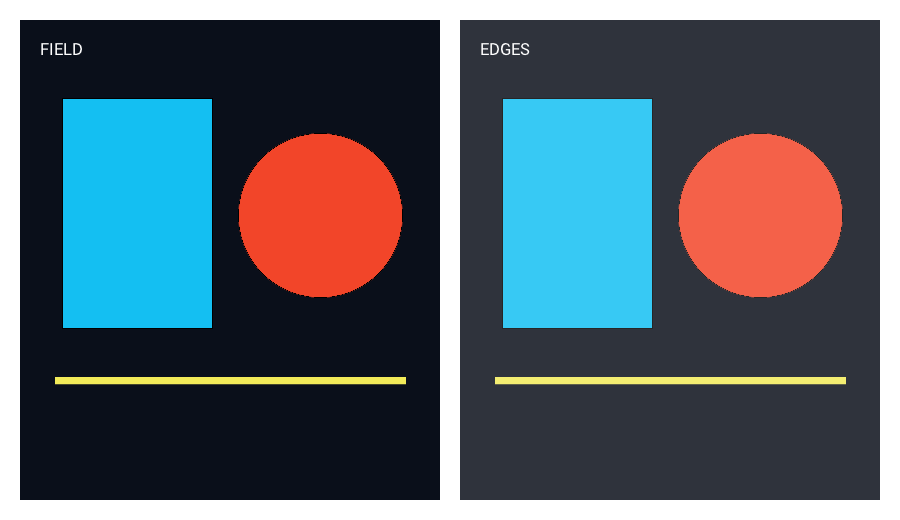
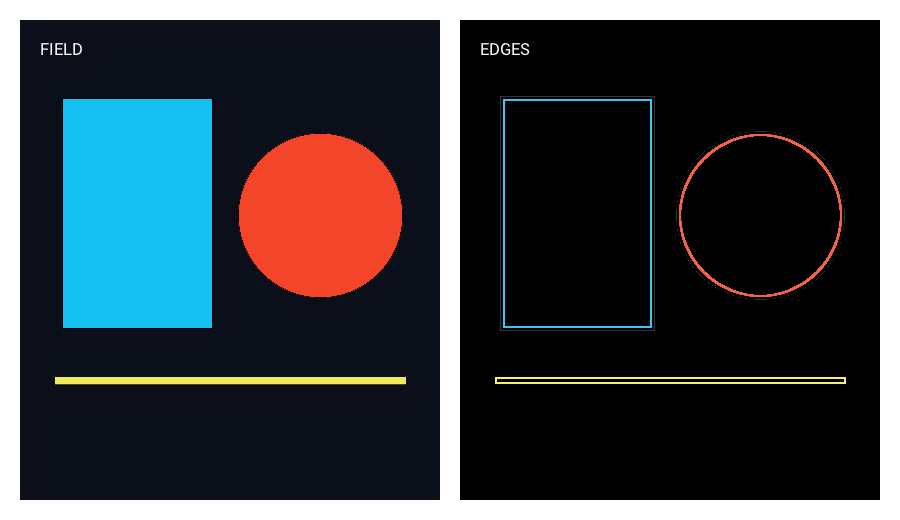
Make image edits preserve alpha and verify the complete gallery pipeline
Color filters now preserve alpha, and sepia uses an explicit warm-tone matrix with known-answer checks. Validate freshly generated assets without Git timestamps and publish the reviewed before/after gallery with reproducible build evidence.

Confidence: high
Scope-risk: moderate
Tested: 17 local test groups, 90 native assertions, 10 DSL scripts, 14 error cases, static linkage, deterministic images, both memory budgets and visual QA
Not-tested: Five-platform CI and release autorun checks pending

diff --git a/cpp/image.cpp b/cpp/image.cpp
@@ -37,7 +37,8 @@ void init() {
         "<policymap><policy domain=\"delegate\" rights=\"none\" "
         "pattern=\"*\"/><policy domain=\"coder\" rights=\"none\" "
         "pattern=\"*\"/><policy domain=\"coder\" rights=\"read|write\" "
-        "pattern=\"{PNG,JPEG,TIFF,WEBP,GIF,BMP,PNM,PPM,PGM,PBM}\"/><policy domain=\"path\" "
+        "pattern=\"{PNG,JPEG,TIFF,WEBP,GIF,BMP,PNM,PPM,PGM,PBM}\"/><policy "
+        "domain=\"path\" "
         "rights=\"none\" pattern=\"@*\"/><policy domain=\"system\" "
         "name=\"max-profile-size\" value=\"1MiB\"/></policymap>";
     if (MagickSetSecurityPolicy(policy_wand, policy) == MagickFalse) {
@@ -206,6 +207,28 @@ void import_rgba(MagickWand *w, std::vector<double> &a) {
                              a.data()),
      w, "import pixels");
 }
+template <class F> void rgb_filter(MagickWand *p, F operation) {
+  const size_t w = MagickGetImageWidth(p), h = MagickGetImageHeight(p);
+  std::vector<unsigned char> alpha(w * h);
+  ok(MagickExportImagePixels(p, 0, 0, w, h, "A", CharPixel, alpha.data()), p,
+     "read filter alpha");
+  const auto old = MagickSetImageChannelMask(
+      p, static_cast<ChannelType>(RedChannel | GreenChannel | BlueChannel));
+  operation();
+  MagickSetImageChannelMask(p, old);
+  ok(MagickSetImageAlphaChannel(p, ActivateAlphaChannel), p,
+     "activate filter alpha");
+  ok(MagickImportImagePixels(p, 0, 0, w, h, "A", CharPixel, alpha.data()), p,
+     "preserve filter alpha");
+}
+void kernel_peak(double radius, double sigma) {
+  if (!std::isfinite(radius) || !std::isfinite(sigma) || radius < 0 ||
+      sigma < 0 || radius > 256 || sigma > 256)
+    throw std::invalid_argument("filter radius and sigma must be in [0,256]");
+  auto width =
+      static_cast<size_t>(2 * std::ceil(std::max(radius, 4 * sigma)) + 1);
+  membudget::require(width * width * sizeof(double) + 32768);
+}
 double lum(const double *p) {
   return .2126 * p[0] + .7152 * p[1] + .0722 * p[2];
 }
@@ -322,7 +345,7 @@ Image Image::open(const std::string &path) {
   check_path(path);
   const std::string read_path = path + "[0]";
   auto file_bytes = std::filesystem::file_size(path);
-  if (file_bytes > std::numeric_limits<size_t>::max() / 2)
+  if (file_bytes > (std::numeric_limits<size_t>::max() - 2 * 1024 * 1024) / 2)
     throw std::invalid_argument("image file too large");
   membudget::require(static_cast<size_t>(file_bytes) * 2 + 2 * 1024 * 1024);
   MagickWand *probe = NewMagickWand();
@@ -475,12 +498,14 @@ Image &Image::flip(bool horizontal) {
 }
 Image &Image::levels(double black, double gamma, double white) {
   if (!std::isfinite(black) || !std::isfinite(gamma) || !std::isfinite(white) ||
-      !(gamma > 0))
+      !(gamma > 0) || black < 0 || white > 1 || black >= white)
     throw std::invalid_argument(
-        "levels parameters must be finite and gamma positive");
+        "levels require 0 <= black < white <= 1 and positive finite gamma");
   return mutate([&](MagickWand *p) {
-    ok(MagickLevelImage(p, black * QuantumRange, gamma, white * QuantumRange),
-       p, "levels");
+    rgb_filter(p, [&] {
+      ok(MagickLevelImage(p, black * QuantumRange, gamma, white * QuantumRange),
+         p, "levels");
+    });
   });
 }
 Image &Image::curves(const std::vector<double> &cp) {
@@ -555,26 +580,39 @@ Image &Image::grayscale() {
     import_rgba(p, a);
   });
 }
-Image &Image::sepia(double t) {
-  return mutate(
-      [&](MagickWand *p) { ok(MagickSepiaToneImage(p, t), p, "sepia"); });
+Image &Image::sepia(double strength) {
+  if (!std::isfinite(strength) || strength < 0 || strength > 100)
+    throw std::invalid_argument("sepia strength must be in [0,100]");
+  return mutate([&](MagickWand *p) {
+    std::vector<double> a;
+    export_rgba(p, a);
+    double t = strength / 100;
+    for (size_t i = 0; i < a.size(); i += 4) {
+      double r = a[i], g = a[i + 1], b = a[i + 2];
+      a[i] = clip((1 - t) * r + t * (.393 * r + .769 * g + .189 * b));
+      a[i + 1] = clip((1 - t) * g + t * (.349 * r + .686 * g + .168 * b));
+      a[i + 2] = clip((1 - t) * b + t * (.272 * r + .534 * g + .131 * b));
+    }
+    import_rgba(p, a);
+  });
 }
-Image &Image::blur(double r, double s) {
-  if (!std::isfinite(r) || !std::isfinite(s) || r < 0 || s < 0)
-    throw std::invalid_argument("blur radii must be finite and nonnegative");
-  return mutate(
-      [&](MagickWand *p) { ok(MagickBlurImage(p, r, s), p, "blur"); });
+Image &Image::blur(double r, double sigma) {
+  kernel_peak(r, sigma);
+  return mutate([&](MagickWand *p) {
+    rgb_filter(p, [&] { ok(MagickBlurImage(p, r, sigma), p, "blur"); });
+  });
 }
-Image &Image::sharpen(double r, double s) {
-  if (!std::isfinite(r) || !std::isfinite(s) || r < 0 || s < 0)
-    throw std::invalid_argument("sharpen radii must be finite and nonnegative");
-  return mutate(
-      [&](MagickWand *p) { ok(MagickSharpenImage(p, r, s), p, "sharpen"); });
+Image &Image::sharpen(double r, double sigma) {
+  kernel_peak(r, sigma);
+  return mutate([&](MagickWand *p) {
+    rgb_filter(p, [&] { ok(MagickSharpenImage(p, r, sigma), p, "sharpen"); });
+  });
 }
 Image &Image::edges(double r) {
-  if (!std::isfinite(r) || r < 0)
-    throw std::invalid_argument("edge radius must be finite and nonnegative");
-  return mutate([&](MagickWand *p) { ok(MagickEdgeImage(p, r), p, "edges"); });
+  kernel_peak(r, 0);
+  return mutate([&](MagickWand *p) {
+    rgb_filter(p, [&] { ok(MagickEdgeImage(p, r), p, "edges"); });
+  });
 }
 Image &Image::unsharp(double r, double s, double amount, double threshold) {
   if (!std::isfinite(r) || !std::isfinite(s) || r < 0 || s < 0 ||
@@ -1223,7 +1261,7 @@ void Animation::save(const std::string &path) const {
       throw std::invalid_argument("animation is too large");
     total += w * h;
   }
-  if (total > std::numeric_limits<std::size_t>::max() / 32)
+  if (total > (std::numeric_limits<std::size_t>::max() - 4096) / 32)
     throw std::invalid_argument("animation is too large");
   membudget::require(total * 32 + 4096);
   init();

diff --git a/tests/scientific.cpp b/tests/scientific.cpp
@@ -18,7 +18,8 @@ std::size_t checks = 0;
 
 void check(bool ok, const std::string &what) {
   ++checks;
-  if (!ok) throw std::runtime_error("scientific check failed: " + what);
+  if (!ok)
+    throw std::runtime_error("scientific check failed: " + what);
 }
 
 void close(double got, double want, double tol, const std::string &what) {
@@ -37,10 +38,11 @@ void codec_roundtrip(const Img &source, const fs::path &dir,
   source.save(path.string(), format);
   check(fs::file_size(path) > 0, format + " writer produced an empty file");
   Img decoded = Img::open(path.string());
-  check(decoded.width() == source.width() && decoded.height() == source.height(),
+  check(decoded.width() == source.width() &&
+            decoded.height() == source.height(),
         format + " roundtrip changed dimensions");
-  // Lossless formats preserve every channel. JPEG is intentionally checked with a
-  // codec-appropriate error bound because its quantization is lossy.
+  // Lossless formats preserve every channel. JPEG is intentionally checked with
+  // a codec-appropriate error bound because its quantization is lossy.
   const double similarity = source.ssim(decoded);
   close(similarity, 1.0, format == "JPEG" ? 0.08 : 1e-8,
         format + " roundtrip SSIM");
@@ -77,12 +79,12 @@ void check_animation_gif(const fs::path &path) {
 
 int main(int argc, char **argv) {
   try {
-    const fs::path dir = argc > 1 ? fs::path(argv[1])
-                                  : fs::temp_directory_path() / "lmimg-scientific";
+    const fs::path dir = argc > 1
+                             ? fs::path(argv[1])
+                             : fs::temp_directory_path() / "lmimg-scientific";
     fs::create_directories(dir);
 
-    const double q64 = 64.0 / 255.0, q128 = 128.0 / 255.0,
-                 q192 = 192.0 / 255.0;
+    const double q64 = 64.0 / 255.0, q128 = 128.0 / 255.0, q192 = 192.0 / 255.0;
     Img solid = Img::create(32, 24, {q64, q128, q192, 1.0});
     check(solid.width() == 32 && solid.height() == 24, "create dimensions");
     const Color solid_pixel = solid.pixel(0, 0);
@@ -145,9 +147,11 @@ int main(int argc, char **argv) {
     close(selected.pixel(0, 0).a, 0.0, 0.002, "selection outside");
     Img healed = Img::create(5, 5, {0.2, 0.4, 0.6, 1});
     healed.set_pixel(2, 2, {1, 1, 1, 1}).heal(2, 2, 1, 1, 1);
-    close(healed.pixel(2, 2).r, 0.2, 0.02, "healing fills region from boundary");
+    close(healed.pixel(2, 2).r, 0.2, 0.02,
+          "healing fills region from boundary");
     Img geometry = Img::pattern(9, 9, "x", "y", "0.3", "1");
-    check(geometry.clone().perspective(0, 0, 1, 0, 1, 1, 0, 1).ssim(geometry) > 0.99,
+    check(geometry.clone().perspective(0, 0, 1, 0, 1, 1, 0, 1).ssim(geometry) >
+              0.99,
           "identity perspective");
     check(geometry.clone().lens(0).ssim(geometry) > 0.99, "identity lens");
 
@@ -162,8 +166,11 @@ int main(int argc, char **argv) {
     close(levels.pixel(0, 0).r, 128.0 / 255.0, 0.002, "identity levels");
     Img sepia = Img::create(1, 1, {0.0, 0.0, 1.0, 1});
     sepia.sepia(0.0);
-    check(sepia.pixel(0, 0).r > sepia.pixel(0, 0).b,
-          "sepia warms blue input");
+    close(sepia.pixel(0, 0).b, 1.0, 1e-12,
+          "zero sepia strength preserves input");
+    sepia.sepia(100);
+    close(sepia.pixel(0, 0).r, .189, .003, "sepia matrix red known answer");
+    close(sepia.pixel(0, 0).b, .131, .003, "sepia matrix blue known answer");
 
     Img impulse = Img::create(9, 9, {0, 0, 0, 1});
     impulse.set_pixel(4, 4, {1, 1, 1, 1});
@@ -178,6 +185,22 @@ int main(int argc, char **argv) {
     Img edges = constant.clone().edges();
     close(edges.stats().mean.r, 0.0, 1e-12, "edges of constant image");
 
+    Img alpha_probe = Img::create(9, 9, {0.4, 0.2, 0.8, 128.0 / 255.0});
+    alpha_probe.levels(0.1, 1.2, 0.9)
+        .blur(2, 1)
+        .sharpen(1, 1)
+        .edges(1)
+        .sepia(80);
+    close(alpha_probe.pixel(4, 4).a, 128.0 / 255.0, 1e-12,
+          "color filters preserve alpha");
+    Img backdrop = Img::create(2, 2, {0.2, 0.4, 0.6, 1});
+    Img foreground = Img::create(2, 2, {0.5, 0.25, 0.75, 1});
+    Img multiplied = backdrop.clone().blend(foreground, "multiply", 1);
+    close(multiplied.pixel(0, 0).r, 0.1, 0.006, "multiply red known pair");
+    close(multiplied.pixel(0, 0).b, 0.45, 0.006, "multiply blue known pair");
+    Img screened = backdrop.clone().blend(foreground, "screen", 1);
+    close(screened.pixel(0, 0).r, 0.6, 0.006, "screen red known pair");
+    close(screened.pixel(0, 0).b, 0.9, 0.006, "screen blue known pair");
     Img overlay = Img::create(2, 2, {1, 0, 0, 0.5});
     Img base = Img::create(4, 4, {0, 0, 1, 1});
     base.blend(overlay, "over", 1.0, 1, 1);
@@ -217,7 +240,12 @@ int main(int argc, char **argv) {
     const fs::path gif = dir / "animation.gif";
     animation.save(gif.string());
     check(fs::file_size(gif) > 0, "animation GIF writer");
-    check(frame_a.ssim(frame_b) < 0.01, "animation source frames differ");
+    check(frame_a.pixel(0, 0).r > 0.99 && frame_b.pixel(0, 0).r < 0.01,
+          "animation source frames differ");
+    close(frame_a.ssim(frame_b),
+          (2 * 0.2126 * 0.0722 + 0.0001) /
+              (0.2126 * 0.2126 + 0.0722 * 0.0722 + 0.0001),
+          1e-10, "SSIM constant-color known pair");
     check_animation_gif(gif);
     Img montage = lmimg::montage({frame_a, frame_b}, 2, 2, {1, 1, 1, 1});
     check(montage.width() == 30 && montage.height() == 12, "montage geometry");

diff --git a/scripts/check-gallery.py b/scripts/check-gallery.py
@@ -31,6 +31,7 @@ def gif_size(path: Path) -> tuple[int, int]:
 def main() -> int:
     parser = argparse.ArgumentParser()
     parser.add_argument("--generated", action="store_true")
+    parser.add_argument("--generated-dir", type=Path, default=ROOT / "images")
     args = parser.parse_args()
     examples = sorted(p.stem for p in (ROOT / "examples").glob("*.lms"))
     if not examples:
@@ -46,8 +47,12 @@ def main() -> int:
         width, height = png_size(path)
         if (width, height) != (900, 520):
             raise SystemExit(f"{path} must be 900x520 ({width}x{height})")
-        if args.generated and path.stat().st_mtime < (ROOT / "examples" / f"{name}.lms").stat().st_mtime:
-            raise SystemExit(f"{path} is older than its example source")
+        if args.generated:
+            fresh = args.generated_dir / f"{name}.png"
+            if not fresh.is_file() or png_size(fresh) != (900, 520):
+                raise SystemExit(f"missing or invalid fresh output: {fresh}")
+            if fresh.stat().st_size > MAX_PNG:
+                raise SystemExit(f"fresh output exceeds PNG byte budget: {fresh}")
     gif = gallery / "animation_wave.gif"
     if not gif.is_file():
         raise SystemExit("missing animation_wave.gif")
@@ -56,8 +61,10 @@ def main() -> int:
     width, height = gif_size(gif)
     if width <= 0 or height <= 0:
         raise SystemExit(f"{gif} has invalid dimensions ({width}x{height})")
-    if args.generated and gif.stat().st_mtime < (ROOT / "examples" / "animation_wave.lms").stat().st_mtime:
-        raise SystemExit(f"{gif} is older than its example source")
+    if args.generated:
+        fresh = args.generated_dir / "animation_wave.gif"
+        if not fresh.is_file() or gif_size(fresh) != gif_size(gif) or fresh.stat().st_size > MAX_GIF:
+            raise SystemExit(f"missing or invalid fresh GIF: {fresh}")
     readme = (ROOT / "README.md").read_text(encoding="utf-8")
     for name in examples:
         url = f"https://raw.githubusercontent.com/lmctl-ai/lmimg/main/examples/{name}.lms"

diff --git a/cpp/image.hpp b/cpp/image.hpp
@@ -49,7 +49,7 @@ public:
              double lightness_scale = 1.0);
   Image &channel_mix(const std::array<double, 9> &matrix);
   Image &grayscale();
-  Image &sepia(double threshold = 80.0);
+  Image &sepia(double strength = 80.0);
   Image &blur(double radius, double sigma);
   Image &sharpen(double radius, double sigma);
   Image &edges(double radius = 1.0);

diff --git a/README.md b/README.md
@@ -4,9 +4,9 @@ Image editing, compositing, and procedural graphics from scripts.
 
 | A gradient becomes a poster | Light, pigment, and transparency |
 | --- | --- |
-| ![Procedural gradient with an annotated color study](docs/images/gradient_studio.png)<br>`lmctl autorun https://raw.githubusercontent.com/lmctl-ai/lmimg/main/examples/gradient_studio.lms` | ![Original, multiply and screen blends](docs/images/blend_modes.png)<br>`lmctl autorun https://raw.githubusercontent.com/lmctl-ai/lmimg/main/examples/blend_modes.lms` |
+| ![Procedural gradient with an annotated color study](docs/images/gradient_studio.png)<br>`lmctl autorun https://raw.githubusercontent.com/lmctl-ai/lmimg/main/examples/gradient_studio.lms` | ![Original and screen blend](docs/images/blend_modes.png)<br>`lmctl autorun https://raw.githubusercontent.com/lmctl-ai/lmimg/main/examples/blend_modes.lms` |
 | ![Original and graded tones](docs/images/levels_lab.png)<br>`lmctl autorun https://raw.githubusercontent.com/lmctl-ai/lmimg/main/examples/levels_lab.lms` | ![Original and sepia print treatment](docs/images/sepia_poster.png)<br>`lmctl autorun https://raw.githubusercontent.com/lmctl-ai/lmimg/main/examples/sepia_poster.lms` |
-| ![A focused subject revealed against a blurred field](docs/images/blur_reveal.png)<br>`lmctl autorun https://raw.githubusercontent.com/lmctl-ai/lmimg/main/examples/blur_reveal.lms` | ![Edges extracted from a synthetic geometric scene](docs/images/edge_map.png)<br>`lmctl autorun https://raw.githubusercontent.com/lmctl-ai/lmimg/main/examples/edge_map.lms` |
+| ![Gaussian blur softens geometric boundaries](docs/images/blur_reveal.png)<br>`lmctl autorun https://raw.githubusercontent.com/lmctl-ai/lmimg/main/examples/blur_reveal.lms` | ![Edges extracted from a synthetic geometric scene](docs/images/edge_map.png)<br>`lmctl autorun https://raw.githubusercontent.com/lmctl-ai/lmimg/main/examples/edge_map.lms` |
 
 Install [lmctl](https://github.com/lmctl-ai/lmctl), then copy any caption above into a terminal. Each script installs its bound host as needed and writes `images/<example>.png` in the current directory. Inputs are generated in the script; no photographs or additional files are required.
 
@@ -51,10 +51,10 @@ All image edits mutate their receiver and return it for chaining. Use `copy()` b
 | Story | Run from any empty directory |
 | --- | --- |
 | Procedural color studio | `lmctl autorun https://raw.githubusercontent.com/lmctl-ai/lmimg/main/examples/gradient_studio.lms` |
-| Multiply and screen | `lmctl autorun https://raw.githubusercontent.com/lmctl-ai/lmimg/main/examples/blend_modes.lms` |
+| Screen compositing | `lmctl autorun https://raw.githubusercontent.com/lmctl-ai/lmimg/main/examples/blend_modes.lms` |
 | Recovering tonal contrast | `lmctl autorun https://raw.githubusercontent.com/lmctl-ai/lmimg/main/examples/levels_lab.lms` |
 | A warm print treatment | `lmctl autorun https://raw.githubusercontent.com/lmctl-ai/lmimg/main/examples/sepia_poster.lms` |
-| Selective focus | `lmctl autorun https://raw.githubusercontent.com/lmctl-ai/lmimg/main/examples/blur_reveal.lms` |
+| Softening geometric boundaries | `lmctl autorun https://raw.githubusercontent.com/lmctl-ai/lmimg/main/examples/blur_reveal.lms` |
 | Finding boundaries | `lmctl autorun https://raw.githubusercontent.com/lmctl-ai/lmimg/main/examples/edge_map.lms` |
 | A contact sheet | `lmctl autorun https://raw.githubusercontent.com/lmctl-ai/lmimg/main/examples/thumbnail_grid.lms` |
 | A moving color wave | `lmctl autorun https://raw.githubusercontent.com/lmctl-ai/lmimg/main/examples/animation_wave.lms` |

diff --git a/durable-memory/05-build-and-tests.md b/durable-memory/05-build-and-tests.md
@@ -1,0 +1,31 @@
+# Build and verification
+
+Build with `scripts/sync-deps.sh`, `scripts/sync-sdk.sh --verify`, then `./test.sh`.
+CMake builds the pinned codec archives, static Q8/non-HDRI ImageMagick C libraries,
+the host, and the native oracle executable. Roboto bytes and stb_truetype are
+embedded at build time. No font or kernel/data file is required at runtime.
+
+Local Linux verification on 2026-10-23: all 17 test groups passed in 40.14 seconds,
+with peak resident memory 2,119,916 KiB for the complete build/test command.
+The native suite has 90 active runtime assertions (not C assert macros), including
+quantized pixels, geometry, masks/selections, HSL/channel mixing/curves, morphology,
+healing, text colors, alpha preservation, over/multiply/screen, statistics,
+closed-form PSNR/SSIM, seven raster codec round trips, and GIF frame timing.
+Ten DSL programs compile and run: two regressions and eight examples. Fourteen
+error snippets must return exit 3, JSON, and exactly one stderr diagnostic.
+
+The suite additionally verifies dependency commit objects and clean checkouts,
+SDK bytes, exact version, generated/embedded/compiler signature parity, exact
+embedded notices, platform linkage, byte-identical figure reruns, dry-run behavior,
+usage/load codes, malformed budget values, a 64 MiB runaway, and the default
+4096 MiB runaway under a Linux 6144 MiB virtual-memory ceiling.
+
+The gallery checker validates committed and freshly generated images independently;
+it does not use file modification times, which are unreliable after Git checkout.
+Eight 900×520 PNGs and a 640×360 eight-frame GIF are regenerated by
+`examples/render-all.sh`. The figures were opened and checked for visible effects,
+legible labels, intact margins, and motion in both the first and middle GIF frames.
+
+Static linkage is checked with ldd on Linux, otool on macOS, and objdump on Windows.
+The scripting compiler is npm `@lmctl-ai/lmctl@0.2.369` in CI. Native tests keep
+assertions active in optimized builds. ImageMagick caches cannot spill to disk.

diff --git a/durable-memory/03-schema-and-numerics.md b/durable-memory/03-schema-and-numerics.md
@@ -11,3 +11,7 @@ The histogram has 256 bins of rounded arithmetic-mean RGB intensity and exports 
 Curves are piecewise-linear control pairs built with `img.curve().point(x,y)`; x must increase from 0 to 1, and all coordinates lie in [0,1]. HSL adds hue in degrees and scales saturation/lightness. `channelmix` takes a row-major 3×3 RGB matrix; alpha is preserved. Masks multiply existing alpha by the mask's weighted RGB luma and alpha. Rectangular selections clear alpha outside their bounds. Layer stacks snapshot their inputs on add; over/multiply/screen use straight-alpha source-over compositing, with opacity applied to source alpha.
 
 Perspective maps the source unit-square corners to the supplied normalized quadrilateral and inverse-samples on the existing output canvas. Lens distortion samples around the image center with radial factor `1 + d*r²`; it is a compact single-coefficient model. Healing-lite replaces a rectangular region's RGB with the mean RGB of its surrounding boundary band, preserving alpha. It is intentionally a local blemish correction, not content reconstruction. Morphology uses square neighborhoods with replicated edge samples and supports erode, dilate and median.
+
+Sepia uses the RGB matrix rows (0.393,0.769,0.189), (0.349,0.686,0.168),
+(0.272,0.534,0.131), mixed with the source by strength/100 and clipped.
+Strength 0 is identity; 100 is the full warm-tone matrix. Alpha is preserved.

diff --git a/durable-memory/06-ci-and-release.md b/durable-memory/06-ci-and-release.md
@@ -1,0 +1,19 @@
+# CI and release
+
+The workflow builds Linux x64 and arm64, macOS arm64 and x64, and Windows x64.
+The compiler is npm `@lmctl-ai/lmctl@0.2.369`. Each job runs the complete test.sh
+suite and packages a raw executable plus LICENSE and THIRD_PARTY_NOTICES.
+
+Main must pass all five jobs before tagging v0.1.0. The tag workflow repeats all
+five builds, checks that the Linux binary reports exactly `lmimg 0.1.0`, and
+publishes the five platform executables with the two license files.
+
+Early CI findings: codec pins must be peeled commit objects rather than annotated
+tag objects. ImageMagick's static WebP closure needs SharpYUV. Private pkg-config
+searches must include both lib/pkgconfig and share/pkgconfig, where zlib installs
+its .pc file. Missing PNG/TIFF delegate detection is a hard configuration error.
+Windows Autoconf paths need POSIX conversion; a native Windows drive path is not
+usable for discovering configure's auxiliary files under Bash.
+
+Release evidence and fresh-directory public autorun URL results are recorded here
+when the platform matrix and release verification finish.
